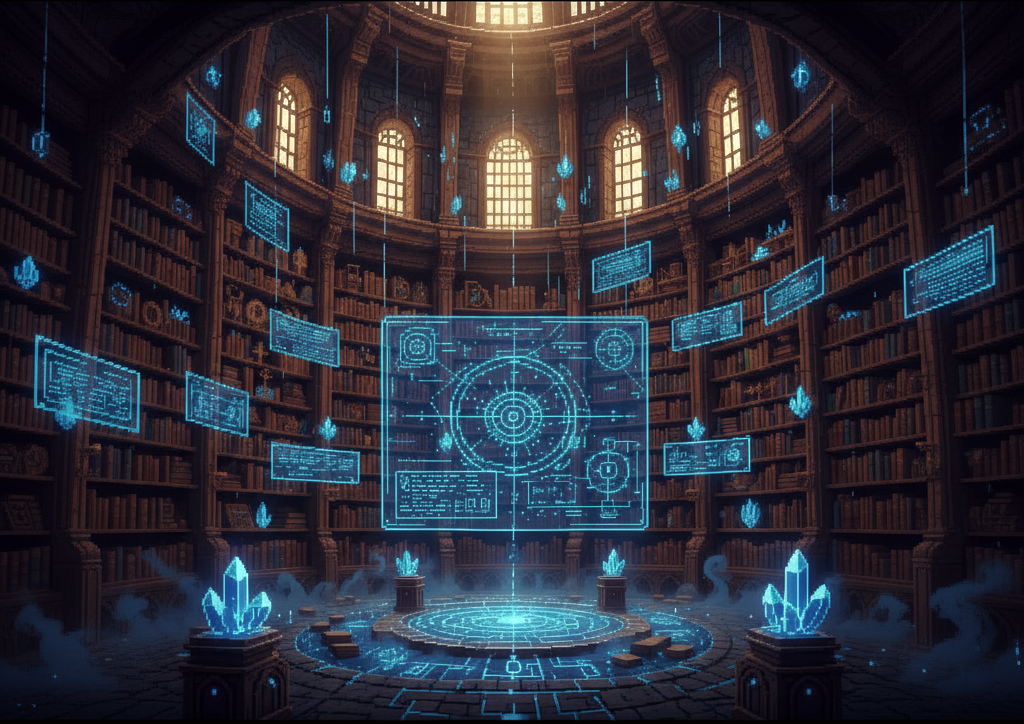
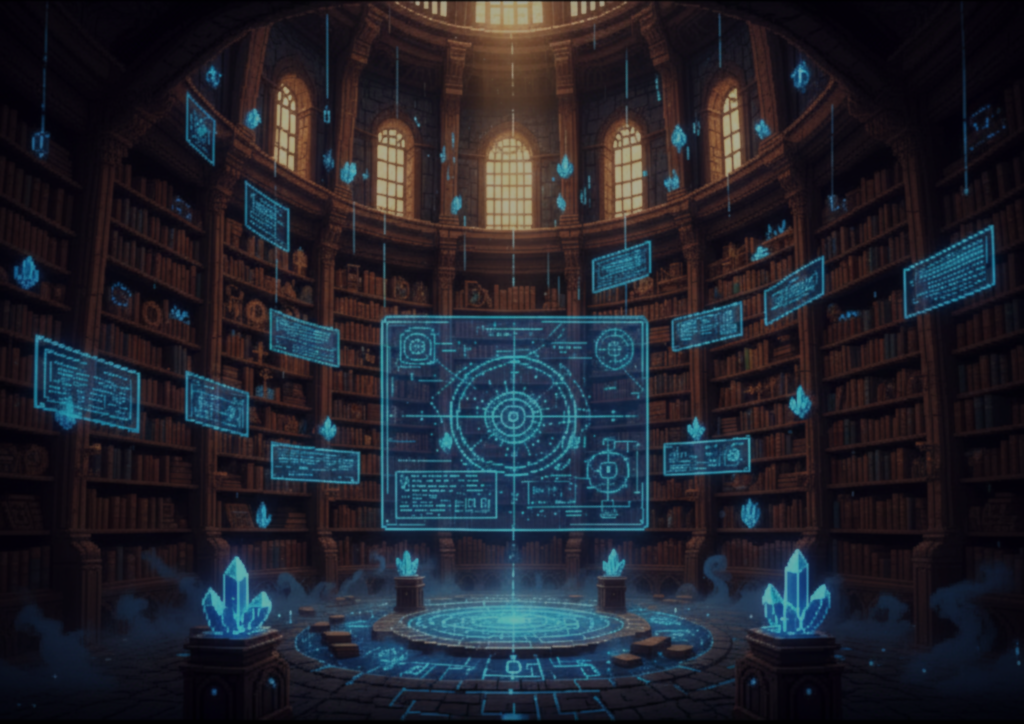
Adjusted the brightness of the background of each room in the game panel, changed the puzzle and gacha panels color theme.

diff --git a/src/Panels/MapPanel.java b/src/Panels/MapPanel.java
@@ -4,6 +4,7 @@ import main.MainApplication;
 import model.GameManager;
 
 import javax.swing.*;
+import javax.swing.border.Border; // 🆕 IMPORT ADDED
 import java.awt.*;
 
 public class MapPanel extends JPanel {
@@ -19,10 +20,15 @@ public class MapPanel extends JPanel {
     private GameManager game;
     private Image mapImage;
 
+    // 🆕 FIX: Store button dimensions
+    private static final Dimension ROOM_BUTTON_SIZE = new Dimension(250, 60);
+    private static final Dimension BACK_BUTTON_SIZE = new Dimension(200, 50);
+
     public MapPanel(MainApplication mainApp, GameManager game) {
         this.mainApp = mainApp;
         this.game = game;
 
+        // Keep your original layout
         setLayout(new BorderLayout());
         add(mapPanel, BorderLayout.CENTER);
 
@@ -46,7 +52,28 @@ public class MapPanel extends JPanel {
     }
 
     private void setupDungeonButtons() {
-        // Style all buttons with FIRE effects
+        // Set fixed sizes for all buttons
+        room1Button.setPreferredSize(ROOM_BUTTON_SIZE);
+        room1Button.setMaximumSize(ROOM_BUTTON_SIZE);
+        room1Button.setMinimumSize(ROOM_BUTTON_SIZE);
+
+        room2Button.setPreferredSize(ROOM_BUTTON_SIZE);
+        room2Button.setMaximumSize(ROOM_BUTTON_SIZE);
+        room2Button.setMinimumSize(ROOM_BUTTON_SIZE);
+
+        room3Button.setPreferredSize(ROOM_BUTTON_SIZE);
+        room3Button.setMaximumSize(ROOM_BUTTON_SIZE);
+        room3Button.setMinimumSize(ROOM_BUTTON_SIZE);
+
+        room4Button.setPreferredSize(ROOM_BUTTON_SIZE);
+        room4Button.setMaximumSize(ROOM_BUTTON_SIZE);
+        room4Button.setMinimumSize(ROOM_BUTTON_SIZE);
+
+        backButton.setPreferredSize(BACK_BUTTON_SIZE);
+        backButton.setMaximumSize(BACK_BUTTON_SIZE);
+        backButton.setMinimumSize(BACK_BUTTON_SIZE);
+
+        // Style all buttons with FIRE effects (FIXED VERSION)
         styleButtonWithFire(room1Button, "🏰 ROOM 1");
         styleButtonWithFire(room2Button, "🏰 ROOM 2");
         styleButtonWithFire(room3Button, "🏰 ROOM 3");
@@ -62,16 +89,16 @@ public class MapPanel extends JPanel {
         }
     }
 
+    // 🆕 COMPLETELY FIXED VERSION: No border changes during hover
     private void styleButtonWithFire(JButton button, String text) {
+        // Set text and font
         button.setText(text);
         button.setForeground(new Color(255, 215, 0)); // Gold
-
-        // Use monospaced font
-        button.setFont(new Font("Monospaced", Font.BOLD, Math.max(14, button.getFont().getSize())));
+        button.setFont(new Font("Monospaced", Font.BOLD, 14));
 
         // Create stone-like look
         Color stoneColor = new Color(70, 60, 50, 200); // Dark stone with transparency
-        Color stoneBorder = new Color(150, 140, 130); // Light stone border
+        Color stoneBorderColor = new Color(150, 140, 130); // Light stone border
 
         button.setBackground(stoneColor);
         button.setOpaque(true);
@@ -79,16 +106,18 @@ public class MapPanel extends JPanel {
         button.setFocusPainted(false);
         button.setContentAreaFilled(true);
 
-        // Create 3D stone border effect
-        button.setBorder(BorderFactory.createCompoundBorder(
+        // 🆕 FIX: Create ONE permanent border that won't change
+        Border permanentBorder = BorderFactory.createCompoundBorder(
                 BorderFactory.createRaisedBevelBorder(),
                 BorderFactory.createCompoundBorder(
-                        BorderFactory.createLineBorder(stoneBorder, 2),
+                        BorderFactory.createLineBorder(stoneBorderColor, 2),
                         BorderFactory.createEmptyBorder(10, 15, 10, 15)
                 )
-        ));
+        );
 
-        // Fire hover effect
+        button.setBorder(permanentBorder);
+
+        // 🆕 FIXED: Fire hover effect - only changes colors, NOT border
         button.addMouseListener(new java.awt.event.MouseAdapter() {
             @Override
             public void mouseEntered(java.awt.event.MouseEvent e) {
@@ -96,38 +125,15 @@ public class MapPanel extends JPanel {
                     button.setBackground(new Color(120, 50, 30, 220)); // Fire-like red/orange
                     button.setForeground(Color.YELLOW);
 
-                    // Create fiery border
-                    button.setBorder(BorderFactory.createCompoundBorder(
-                            BorderFactory.createLineBorder(Color.ORANGE, 3),
-                            BorderFactory.createCompoundBorder(
-                                    BorderFactory.createLineBorder(new Color(255, 200, 0), 1),
-                                    BorderFactory.createEmptyBorder(10, 15, 10, 15)
-                            )
-                    ));
-
-                    // Add subtle fire animation with timer
+                    // 🆕 NO BORDER CHANGES - only color animation
                     Timer fireTimer = new Timer(200, null);
                     final boolean[] isBright = {false};
 
                     fireTimer.addActionListener(evt -> {
                         if (button.isEnabled() && isBright[0]) {
                             button.setForeground(new Color(255, 255, 150)); // Bright yellow
-                            button.setBorder(BorderFactory.createCompoundBorder(
-                                    BorderFactory.createLineBorder(new Color(255, 150, 0), 3),
-                                    BorderFactory.createCompoundBorder(
-                                            BorderFactory.createLineBorder(new Color(255, 220, 0), 1),
-                                            BorderFactory.createEmptyBorder(10, 15, 10, 15)
-                                    )
-                            ));
                         } else if (button.isEnabled()) {
                             button.setForeground(Color.ORANGE);
-                            button.setBorder(BorderFactory.createCompoundBorder(
-                                    BorderFactory.createLineBorder(Color.ORANGE, 3),
-                                    BorderFactory.createCompoundBorder(
-                                            BorderFactory.createLineBorder(new Color(255, 200, 0), 1),
-                                            BorderFactory.createEmptyBorder(10, 15, 10, 15)
-                                    )
-                            ));
                         }
                         isBright[0] = !isBright[0];
                         button.repaint();
@@ -195,35 +201,36 @@ public class MapPanel extends JPanel {
         updateButtonAppearance(button);
     }
 
+    // 🆕 FIXED: Update appearance without changing border size
     private void updateButtonAppearance(JButton button) {
         if (button == null) return;
 
         String text = button.getText();
         Color stoneColor = new Color(70, 60, 50, 200);
-        Color stoneBorder = new Color(150, 140, 130);
+        Color stoneBorderColor = new Color(150, 140, 130);
 
         if (text.contains("🔒")) {
             // Locked room - gray stone
             stoneColor = new Color(100, 90, 80, 180);
-            stoneBorder = new Color(120, 110, 100);
+            stoneBorderColor = new Color(120, 110, 100);
             button.setForeground(Color.GRAY);
         }
         else if (text.contains("📍")) {
             // Current room - green stone
             stoneColor = new Color(80, 120, 80, 220);
-            stoneBorder = new Color(120, 180, 120);
+            stoneBorderColor = new Color(120, 180, 120);
             button.setForeground(Color.WHITE);
         }
         else if (text.contains("✅")) {
             // Completed room - blue stone
             stoneColor = new Color(80, 100, 140, 220);
-            stoneBorder = new Color(120, 150, 200);
+            stoneBorderColor = new Color(120, 150, 200);
             button.setForeground(Color.WHITE);
         }
         else if (text.contains("⚪")) {
             // Unlocked room - yellow stone
             stoneColor = new Color(140, 130, 80, 220);
-            stoneBorder = new Color(200, 190, 120);
+            stoneBorderColor = new Color(200, 190, 120);
             button.setForeground(Color.BLACK);
         }
         else {
@@ -231,7 +238,7 @@ public class MapPanel extends JPanel {
             button.setForeground(new Color(255, 215, 0));
         }
 
-        // Update button appearance
+        // Update button colors
         if (button.isEnabled()) {
             button.setBackground(stoneColor);
         } else {
@@ -239,14 +246,16 @@ public class MapPanel extends JPanel {
             button.setForeground(Color.GRAY);
         }
 
-        // Restore stone border
-        button.setBorder(BorderFactory.createCompoundBorder(
+        // 🆕 FIXED: Update border COLOR only, not size
+        Border newBorder = BorderFactory.createCompoundBorder(
                 BorderFactory.createRaisedBevelBorder(),
                 BorderFactory.createCompoundBorder(
-                        BorderFactory.createLineBorder(stoneBorder, 2),
+                        BorderFactory.createLineBorder(stoneBorderColor, 2),
                         BorderFactory.createEmptyBorder(10, 15, 10, 15)
                 )
-        ));
+        );
+
+        button.setBorder(newBorder);
     }
 
     private void loadMapImage() {

diff --git a/src/Panels/GamePanel.java b/src/Panels/GamePanel.java
@@ -81,9 +81,9 @@ public class GamePanel extends JPanel {
             roomDescriptionTextArea.setLineWrap(true);
             roomDescriptionTextArea.setWrapStyleWord(true);
             roomDescriptionTextArea.setFont(new Font("Monospaced", Font.BOLD, 14));
-            roomDescriptionTextArea.setForeground(Color.orange);
+            roomDescriptionTextArea.setForeground(Color.cyan);
             roomDescriptionTextArea.setBackground(new Color(30, 30, 60, 180)); // Semi-transparent
-            roomDescriptionTextArea.setCaretColor(Color.orange);
+            roomDescriptionTextArea.setCaretColor(Color.cyan);
             roomDescriptionTextArea.setText(""); // Clear any initial text
             roomDescriptionTextArea.setDisabledTextColor(new Color(255, 255, 200));
         }

diff --git a/src/Panels/PuzzlePanel.java b/src/Panels/PuzzlePanel.java
@@ -64,8 +64,8 @@ public class PuzzlePanel extends JPanel {
             hintTextArea.setEditable(false);
             hintTextArea.setLineWrap(true);
             hintTextArea.setWrapStyleWord(true);
-            hintTextArea.setBackground(new Color(255, 255, 200));
-            hintTextArea.setFont(new Font("Monospaced", Font.ITALIC, 11));
+            hintTextArea.setBackground(new Color(160, 86, 45));
+            hintTextArea.setFont(new Font("Monospaced", Font.ITALIC, 12));
         }
 
         // ✅ Configure toolsLabel if it exists
